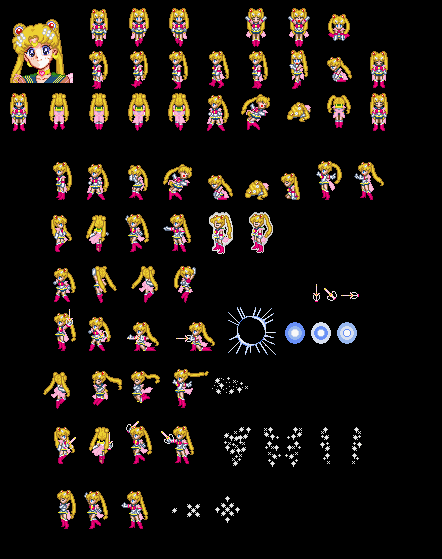
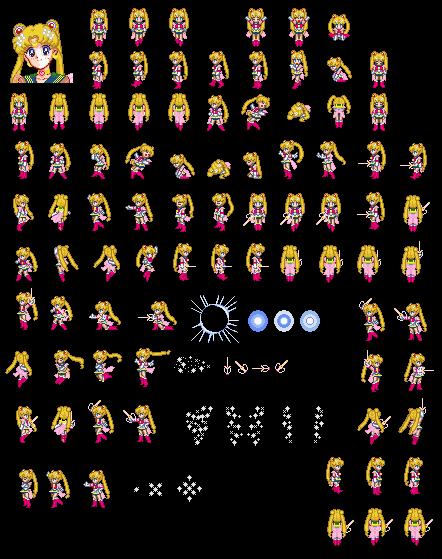
update character animations/start implementing attacks

diff --git a/sailor-moon-rpg/sprites.py b/sailor-moon-rpg/sprites.py
@@ -49,7 +49,7 @@ class Player(pygame.sprite.Sprite):
         # image_to_load = pygame.image.load("./imgs/single.png")
         # take this away ^ bc we wrote a class to load in the imgs without slowing the game down
         
-        self.image = self.game.character_spritesheet.get_sprite(85, 8, self.width, self.height)
+        self.image = self.game.character_spritesheet.get_sprite(243, 189, self.width, self.height)
         # referring to the sprite sheet and the method inside the class spritesheet
         # 32 & 40 are the width and height which we had already set as self.width and self.height but bc my image is a rectangle rather than a square, i needed to put in numbers to figure out where and how long i needed it to be but can add another variable for it =]
 
@@ -136,26 +136,27 @@ class Player(pygame.sprite.Sprite):
                     self.rect.y = hits[0].rect.top - self.rect.height
                 if self.y_change < 0:
                     self.rect.y = hits[0].rect.bottom
-    # ANIMATION
+
+# ANIMATION
     def animate(self):
-        down_animations = [self.game.character_spritesheet.get_sprite(85, 8, self.width, self.height), 
-                            self.game.character_spritesheet.get_sprite(130, 7, self.width, self.height),
-                            self.game.character_spritesheet.get_sprite(170, 4, self.width, self.height)]
+        down_animations = [self.game.character_spritesheet.get_sprite(243,192, self.width, self.height), 
+                            self.game.character_spritesheet.get_sprite(281, 192, self.width, self.height),
+                            self.game.character_spritesheet.get_sprite(317, 192, self.width, self.height)]
 
-        up_animations = [self.game.character_spritesheet.get_sprite(89, 93, self.width, self.height), 
-                            self.game.character_spritesheet.get_sprite(129, 94, self.width, self.height),
-                            self.game.character_spritesheet.get_sprite(169, 92, self.width, self.height)]
+        up_animations = [self.game.character_spritesheet.get_sprite(324, 505, self.width, self.height), 
+                            self.game.character_spritesheet.get_sprite(361, 505, self.width, self.height),
+                            self.game.character_spritesheet.get_sprite(402, 504, self.width, self.height)]
 
-        left_animations = [self.game.character_spritesheet.get_sprite(86, 52, self.width, self.height), 
-                            self.game.character_spritesheet.get_sprite(127, 50, self.width, self.height),
-                            self.game.character_spritesheet.get_sprite(246, 50, self.width, self.height)]
+        left_animations = [self.game.character_spritesheet.get_sprite(355, 136, self.width, self.height), 
+                            self.game.character_spritesheet.get_sprite(396, 139, self.width, self.height),
+                            self.game.character_spritesheet.get_sprite(352, 189, self.width, self.height)]
 
-        right_animations = [self.game.character2_spritesheet.get_sprite(334, 50, self.width, self.height), 
-                            self.game.character2_spritesheet.get_sprite(293, 51, self.width, self.height),
-                            self.game.character2_spritesheet.get_sprite(176, 50, self.width, self.height)]
+        right_animations = [self.game.character_spritesheet.get_sprite(243, 242, self.width, self.height), 
+                            self.game.character_spritesheet.get_sprite(208, 241, self.width, self.height),
+                            self.game.character_spritesheet.get_sprite(171, 241, self.width, self.height)]
         if self.facing == 'down':
             if self.y_change == 0:
-                self.image = self.game.character_spritesheet.get_sprite(85, 8, self.width, self.height)
+                self.image = self.game.character_spritesheet.get_sprite(243,192, self.width, self.height)
             # ^stand still/wont actually animate so need to put in self.y_change code
                 # if were standing still, set to static image. if y_change isnt 0 = we're moving
             else: 
@@ -169,7 +170,7 @@ class Player(pygame.sprite.Sprite):
                     self.animation_loop = 1
         if self.facing == 'up':
             if self.y_change == 0:
-                self.game.character_spritesheet.get_sprite(89, 93, self.width, self.height)
+                self.game.character_spritesheet.get_sprite(324, 505, self.width, self.height)
             else:
                 self.image = up_animations[math.floor(self.animation_loop)]
                 self.animation_loop += 0.1
@@ -178,7 +179,7 @@ class Player(pygame.sprite.Sprite):
 
         if self.facing == 'left':
             if self.x_change == 0:
-                self.game.character_spritesheet.get_sprite(86, 52, self.width, self.height)
+                self.game.character_spritesheet.get_sprite(355, 136, self.width, self.height)
             else:
                 self.image = left_animations[math.floor(self.animation_loop)]
                 self.animation_loop += 0.1
@@ -187,7 +188,7 @@ class Player(pygame.sprite.Sprite):
                     
         if self.facing == 'right':
             if self.x_change == 0:
-                self.game.character2_spritesheet.get_sprite(334, 50, self.width, self.height)
+                self.game.character_spritesheet.get_sprite(243, 242, self.width, self.height)
             else:
                 self.image = right_animations[math.floor(self.animation_loop)]
                 self.animation_loop += 0.1
@@ -707,8 +708,89 @@ class Button:
             # ^ if we havent, return false
         return False
 
+# ATTACK
+# class Attack(pygame.sprite.Sprite):
+    # inheriting from the pygame sprite
+    # def __init__ (self, game, x, y):
+    #     self.game = game
+    #     self.x = x
+    #     self.y = y
+    #     self.width = TILESIZE  
+    #     self.height = HEIGHTSIZE
 
+    #     self.animation_loop = 0 
 
+    #     self.image = self.game.attack_spritesheet.get_sprite(0,0, self.width, self.height)
+
+    #     self.rect = self.image.get_rect()
+    #     self.rect.x = self.x
+    #     self.rect.y = self.y
+
+    #     def update(self):
+    #         self.animate()
+    #         self.collide()
         
+    #     def collide(self):
+    #         hits = pygame.sprite.spritecollide(self, self.game.enemies, True)
+    #         # self.game.enemies = checking for collision b/t attack animation and the enemies
+    #         # true = bc if it there is a collision, then we want to kill the enemies/if it was false, then the enemies wont die
+        
+    #     def animate(self):
+    #         direction = self.game.player.facing
 
+    #         down_animations = [self.game.attack_spritesheet.get_sprite(85, 8, self.width, self.height), 
+    #                             self.game.attack_spritesheet.get_sprite(130, 7, self.width, self.height),
+    #                             self.game.attack_spritesheet.get_sprite(170, 4, self.width, self.height)]
+
+    #         up_animations = [self.game.attack_spritesheet.get_sprite(88, 421, self.width, self.height), 
+    #                             self.game.attack_spritesheet.get_sprite(129, 94, self.width, self.height),
+    #                             self.game.attack_spritesheet.get_sprite(169, 92, self.width, self.height)]
+
+    #         left_animations = [self.game.attack_spritesheet.get_sprite(86, 52, self.width, self.height), 
+    #                             self.game.attack_spritesheet.get_sprite(127, 50, self.width, self.height),
+    #                             self.game.attack_spritesheet.get_sprite(246, 50, self.width, self.height)]
+
+    #         right_animations = [self.game.attack2_spritesheet.get_sprite(334, 50, self.width, self.height), 
+    #                             self.game.attack2_spritesheet.get_sprite(293, 51, self.width, self.height),
+    #                             self.game.attack2_spritesheet.get_sprite(176, 50, self.width, self.height)]
+    #         if self.facing == 'down':
+    #             if self.y_change == 0:
+    #                 self.image = self.game.attack_spritesheet.get_sprite(85, 8, self.width, self.height)
+    #             # ^stand still/wont actually animate so need to put in self.y_change code
+    #                 # if were standing still, set to static image. if y_change isnt 0 = we're moving
+    #             else: 
+    #                 self.image = down_animations[math.floor(self.animation_loop)]
+    #                 # self.animation_loop inside math.floor = index which is 1 (choosing the second out of the 3) -> index 1
+    #                 self.animation_loop += 0.1
+    #                 # reaching 1,2, or 3 for every 10 frames; every 10 frames is going to change the animation loop 
+    #                 if self.animation_loop >=3:
+    #                     # set it back to one bc we only have 3 images in each animation list
+    #                     # adding 0.1 to math.floor each time and eventually will reach 2 and then change index of the math.floor which then reaches 3 and then we set it back to index 0 
+    #                     self.animation_loop = 1
+    #         if self.facing == 'up':
+    #             if self.y_change == 0:
+    #                 self.game.attack_spritesheet.get_sprite(89, 93, self.width, self.height)
+    #             else:
+    #                 self.image = up_animations[math.floor(self.animation_loop)]
+    #                 self.animation_loop += 0.1
+    #                 if self.animation_loop >=3:
+    #                     self.animation_loop = 1
+
+    #         if self.facing == 'left':
+    #             if self.x_change == 0:
+    #                 self.game.attack_spritesheet.get_sprite(86, 52, self.width, self.height)
+    #             else:
+    #                 self.image = left_animations[math.floor(self.animation_loop)]
+    #                 self.animation_loop += 0.1
+    #                 if self.animation_loop >=3:
+    #                     self.animation_loop = 1
+                        
+    #         if self.facing == 'right':
+    #             if self.x_change == 0:
+    #                 self.game.attack2_spritesheet.get_sprite(334, 50, self.width, self.height)
+    #             else:
+    #                 self.image = right_animations[math.floor(self.animation_loop)]
+    #                 self.animation_loop += 0.1
+    #                 if self.animation_loop >=3:
+    #                     self.animation_loop = 1
 

diff --git a/sailor-moon-rpg/main.py b/sailor-moon-rpg/main.py
@@ -32,7 +32,10 @@ class Game: #--> the main class
         # VILLAINS
         self.enemies_spritesheet = Spritesheet('imgs/sailormoon-villain.gif')
         self.villains_spritesheet = Spritesheet('imgs/sailormoon-villainflip.gif')
-        # BACKGROUND
+        # ATTACK
+        self.attack_spritesheet = Spritesheet('imgs/sailormoon4.png')
+        self.attack2_spritesheet = Spritesheet('imgs/sailormoon4flip.png')
+        # BACKGROUNDS
         self.intro_background = pygame.image.load('imgs/introbg3.jpg')
         # self.intro_background = pygame.image.load('imgs/introbg3a.jpg')
         # self.intro_background = pygame.transform.scale(self.intro_background, (640,480), (0,0))
@@ -40,6 +43,7 @@ class Game: #--> the main class
         #     self.rect = self.rect.move((30,30))
         #     self.screen.blit(self.intro_background, self.rect)
         #     self.screen = pygame.display.set_mode((640,480))
+        self.go_background = pygame.image.load('imgs/gameoverbg2.jpg')
         self.icon = pygame.image.load('imgs/star3.png')
         self.icon.set_colorkey(WHITE)
         
@@ -134,14 +138,38 @@ class Game: #--> the main class
         # ^want to take this out now bc when we hit a game over sequence, we dont want the game to just quit
         # once we collide with an enemy, we get out of this loop above and go to the game over sequence
     def game_over(self):
-        text = self.font.render('Game Over', True, RED)
+        text = self.font.render('Game Over', True, DARK_RED)
         text_rect = text.get_rect(center=(WIN_WIDTH/2, WIN_HEIGHT/2))
         # get rectangle from the text object/param ^ centers text in the middle of the screen
 
-        restart_button = Button(10, WIN_HEIGHT - 60, 120, 50, SILVER, PURPLE, 'Restart', 32)
+        restart_button = Button(10, WIN_HEIGHT - 60, 120, 50, SILVER, DARK_PURPLE, 'Restart', 32)
 
         # want to get everything (sprites) off the screen now when the game over screen displays 
-        
+        for sprite in self.all_sprites:
+            sprite.kill()
+
+            # create an event loop
+        while self.running:
+            for event in pygame.event.get():
+                if event.type == pygame.QUIT:
+                    self.running = False
+                    # when it hits false, it will quit and exit aka quit the app
+
+            mouse_pos = pygame.mouse.get_pos()
+            mouse_pressed = pygame.mouse.get_pressed()
+
+            if restart_button.is_pressed(mouse_pos, mouse_pressed):
+                self.new()
+                self.main()
+                # this will start a new game ^
+            
+            # display everything on the screen
+            self.screen.blit(self.go_background, (-40,-70))
+            self.screen.blit(text, text_rect)
+            self.screen.blit(restart_button.image, restart_button.rect)
+            self.clock.tick(FPS)
+            pygame.display.update()
+
 
     def intro_screen(self):
         intro = True

diff --git a/sailor-moon-rpg/config.py b/sailor-moon-rpg/config.py
@@ -25,8 +25,14 @@ CRYSTAL = (124,195,241)
 LIGHT_CRYSTAL = (219,240,251)
 # RED = (248,135,132)
 RED = (184,0,0)
+DARK_RED = (225,67,68)
+# DARK_RED = (226,2,2)
+BRIGHT_RED = (203,0,0)
 PURPLE = (205,199,247)
-SILVER = (186,217,248)
+DARK_PURPLE = (169,146,226)
+# DARK_PURPLE = (193,135,229)
+SILVER = (243,251,253)
+# SILVER = (186,217,248)
 
 
 #has rows and columns - grid. height = 480/tilesize = 32 = 15 rows
